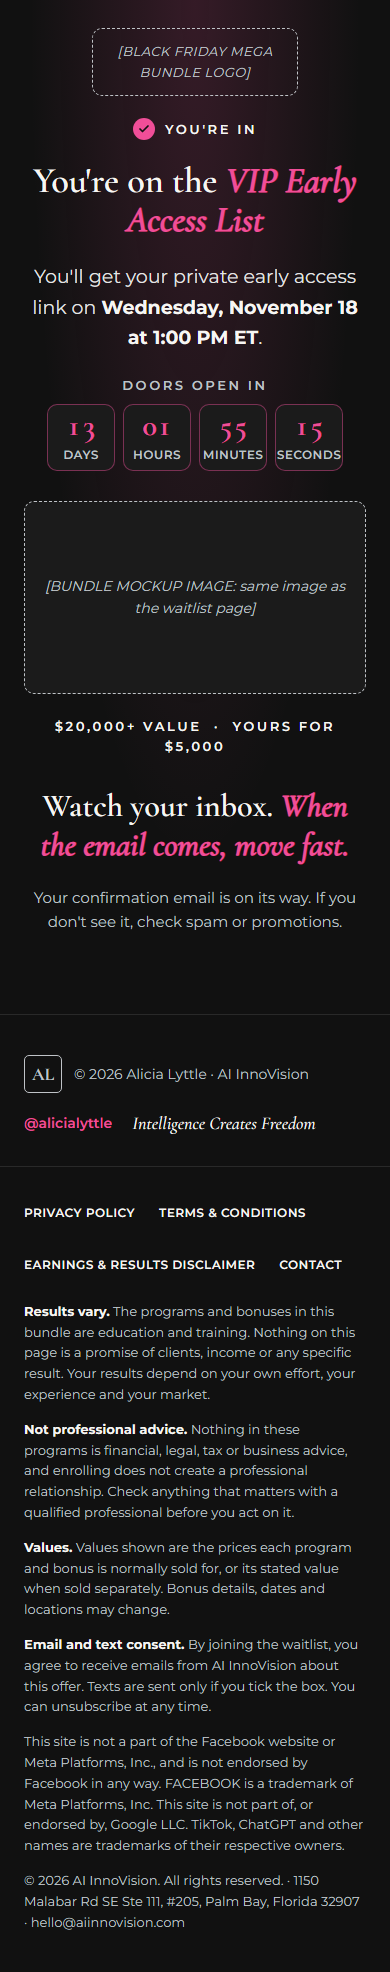
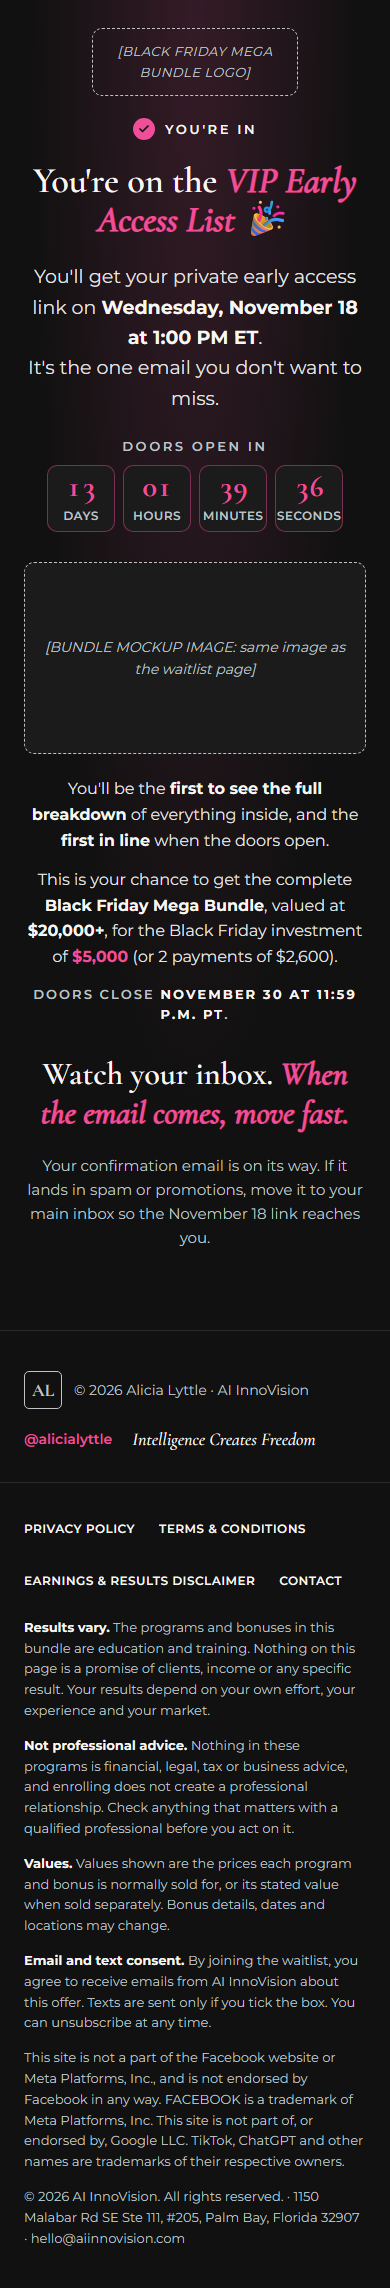
Waitlist confirmation v3: richer copy modelled on last year's; reference: confirmed-1

Changed region(s): [[0.0615, 0.3403, 0.9231, 0.9899], [0.0615, 0.0, 0.9231, 0.2475], [0.1231, 0.2784, 0.8923, 0.3093]]

diff --git a/funnels/mega-bundle-waitlist-nov-2026/preview/2-confirmed.html b/funnels/mega-bundle-waitlist-nov-2026/preview/2-confirmed.html
@@ -134,6 +134,11 @@ details summary::-webkit-details-marker{display:none}
   p[style*="font-size: 11px"]{font-size:12px !important}
 }
 @media (max-width:640px){.dbr{display:none}}
+.perks{max-width:680px;display:flex;flex-direction:column;gap:14px;font-size:18px;line-height:1.6;color:#E5E5E5}
+.perks strong{color:#F7F6F3}
+.perks .pink{color:#F04E98}
+.perks .closes{font-size:13px;letter-spacing:.16em;text-transform:uppercase;font-weight:600;color:#BFC3C7}
+@media (max-width:640px){.perks{font-size:16px}}
 </style>
 </head>
 <body><div style="position:sticky;top:0;z-index:99;background:#F04E98;color:#111;font:600 13px Montserrat,Arial,sans-serif;text-align:center;padding:8px 12px">PREVIEW ONLY · Step 2: Confirmation page. <a href="1-waitlist.html" style="color:#111">← Back to the waitlist page</a></div>
@@ -146,8 +151,8 @@ details summary::-webkit-details-marker{display:none}
 <span>[BLACK FRIDAY MEGA BUNDLE LOGO]</span>
 </div>
 <div style="display: flex; align-items: center; gap: 10px"><span style="width: 22px; height: 22px; border-radius: 50%; background: #F04E98; display: grid; place-items: center"><svg width="12" height="12" viewBox="0 0 24 24" fill="none" stroke="#111111" stroke-width="3.5" stroke-linecap="round" stroke-linejoin="round" aria-hidden="true"><path d="M20 6L9 17l-5-5"></path></svg></span><span class="eyebrow" style="color: #F7F6F3">You're in</span></div>
-<h1 style="font-size: 52px; color: #F7F6F3">You're on the <em style="font-style: italic; color: #F04E98">VIP Early Access List</em></h1>
-<p class="body" style="font-size: 19px; max-width: 800px">You'll get your private early access link on<br class="dbr"> <strong style="color: #F7F6F3"><span style="white-space: nowrap">Wednesday, November 18</span> <span style="white-space: nowrap">at 1:00 PM ET</span></strong>.</p>
+<h1 style="font-size: 52px; color: #F7F6F3">You're on the <em style="font-style: italic; color: #F04E98">VIP Early Access List</em> 🎉</h1>
+<p class="body" style="font-size: 19px; max-width: 800px">You'll get your private early access link on<br class="dbr"> <strong style="color: #F7F6F3"><span style="white-space: nowrap">Wednesday, November 18</span> <span style="white-space: nowrap">at 1:00 PM ET</span></strong>.<br>It's the one email you don't want to miss.</p>
 <div class="countdown" id="countdown" aria-live="polite" style="align-items: center">
 <p class="eyebrow" style="color: #BFC3C7">Doors open in</p>
 <div class="cd-boxes">
@@ -160,9 +165,13 @@ details summary::-webkit-details-marker{display:none}
 <div class="mockup" id="bundle-mockup" style="margin-top: 8px"><!-- Replace this box with the bundle mockup image: <img src="MOCKUP-URL" alt="The Black Friday Mega Bundle: everything inside"> -->
 <span>[BUNDLE MOCKUP IMAGE: same image as the waitlist page]</span>
 </div>
-<p class="eyebrow" style="color: #F7F6F3">$20,000+ value &nbsp;·&nbsp; yours for $5,000</p>
+<div class="perks">
+<p>You'll be the <strong>first to see the full breakdown</strong> of everything inside, and the <strong>first in line</strong> when the doors open.</p>
+<p>This is your chance to get the complete <strong>Black Friday Mega Bundle</strong>, valued at <strong>$20,000+</strong>, for the Black Friday investment of <strong class="pink">$5,000</strong> <span style="white-space: nowrap">(or 2 payments of $2,600).</span></p>
+<p class="closes">Doors close <strong>November 30 at 11:59 p.m. PT</strong>.</p>
+</div>
 <p style="font-family: 'Cormorant Garamond', Georgia, serif; font-size: 32px; font-weight: 600; line-height: 1.2; color: #F7F6F3; margin-top: 8px">Watch your inbox. <em style="color: #F04E98">When the email comes, move fast.</em></p>
-<p class="body" style="font-size: 15px; color: #BFC3C7">Your confirmation email is on its way. If you don't see it, check spam or promotions.</p>
+<p class="body" style="font-size: 15px; color: #BFC3C7">Your confirmation email is on its way. If it lands in spam or promotions, move it to your main inbox so the November 18 link reaches you.</p>
 </div>
 </div>
 

diff --git a/funnels/mega-bundle-waitlist-nov-2026/ghl/confirmed.ghl.html b/funnels/mega-bundle-waitlist-nov-2026/ghl/confirmed.ghl.html
@@ -183,6 +183,11 @@ body { background: #111111; }
   #ghl-waitlist-confirmed p[style*="font-size: 11px"] {font-size:12px !important}
 }
 @media (max-width:640px) {#ghl-waitlist-confirmed .dbr {display:none}}
+#ghl-waitlist-confirmed .perks {max-width:680px;display:flex;flex-direction:column;gap:14px;font-size:18px;line-height:1.6;color:#E5E5E5}
+#ghl-waitlist-confirmed .perks strong {color:#F7F6F3}
+#ghl-waitlist-confirmed .perks .pink {color:#F04E98}
+#ghl-waitlist-confirmed .perks .closes {font-size:13px;letter-spacing:.16em;text-transform:uppercase;font-weight:600;color:#BFC3C7}
+@media (max-width:640px) {#ghl-waitlist-confirmed .perks {font-size:16px}}
 
 /* --- structural overrides -----------------------------------------------
    These come LAST on purpose. The original page styled `body`, which the
@@ -214,8 +219,8 @@ body { background: #111111; }
 <span>[BLACK FRIDAY MEGA BUNDLE LOGO]</span>
 </div>
 <div style="display: flex; align-items: center; gap: 10px"><span style="width: 22px; height: 22px; border-radius: 50%; background: #F04E98; display: grid; place-items: center"><svg width="12" height="12" viewBox="0 0 24 24" fill="none" stroke="#111111" stroke-width="3.5" stroke-linecap="round" stroke-linejoin="round" aria-hidden="true"><path d="M20 6L9 17l-5-5"></path></svg></span><span class="eyebrow" style="color: #F7F6F3">You're in</span></div>
-<h1 style="font-size: 52px; color: #F7F6F3">You're on the <em style="font-style: italic; color: #F04E98">VIP Early Access List</em></h1>
-<p class="body" style="font-size: 19px; max-width: 800px">You'll get your private early access link on<br class="dbr"> <strong style="color: #F7F6F3"><span style="white-space: nowrap">Wednesday, November 18</span> <span style="white-space: nowrap">at 1:00 PM ET</span></strong>.</p>
+<h1 style="font-size: 52px; color: #F7F6F3">You're on the <em style="font-style: italic; color: #F04E98">VIP Early Access List</em> 🎉</h1>
+<p class="body" style="font-size: 19px; max-width: 800px">You'll get your private early access link on<br class="dbr"> <strong style="color: #F7F6F3"><span style="white-space: nowrap">Wednesday, November 18</span> <span style="white-space: nowrap">at 1:00 PM ET</span></strong>.<br>It's the one email you don't want to miss.</p>
 <div class="countdown" id="countdown" aria-live="polite" style="align-items: center">
 <p class="eyebrow" style="color: #BFC3C7">Doors open in</p>
 <div class="cd-boxes">
@@ -228,9 +233,13 @@ body { background: #111111; }
 <div class="mockup" id="bundle-mockup" style="margin-top: 8px"><!-- Replace this box with the bundle mockup image: <img src="MOCKUP-URL" alt="The Black Friday Mega Bundle: everything inside"> -->
 <span>[BUNDLE MOCKUP IMAGE: same image as the waitlist page]</span>
 </div>
-<p class="eyebrow" style="color: #F7F6F3">$20,000+ value &nbsp;·&nbsp; yours for $5,000</p>
+<div class="perks">
+<p>You'll be the <strong>first to see the full breakdown</strong> of everything inside, and the <strong>first in line</strong> when the doors open.</p>
+<p>This is your chance to get the complete <strong>Black Friday Mega Bundle</strong>, valued at <strong>$20,000+</strong>, for the Black Friday investment of <strong class="pink">$5,000</strong> <span style="white-space: nowrap">(or 2 payments of $2,600).</span></p>
+<p class="closes">Doors close <strong>November 30 at 11:59 p.m. PT</strong>.</p>
+</div>
 <p style="font-family: 'Cormorant Garamond', Georgia, serif; font-size: 32px; font-weight: 600; line-height: 1.2; color: #F7F6F3; margin-top: 8px">Watch your inbox. <em style="color: #F04E98">When the email comes, move fast.</em></p>
-<p class="body" style="font-size: 15px; color: #BFC3C7">Your confirmation email is on its way. If you don't see it, check spam or promotions.</p>
+<p class="body" style="font-size: 15px; color: #BFC3C7">Your confirmation email is on its way. If it lands in spam or promotions, move it to your main inbox so the November 18 link reaches you.</p>
 </div>
 </div>
 

diff --git a/funnels/mega-bundle-waitlist-nov-2026/design/confirmed.html b/funnels/mega-bundle-waitlist-nov-2026/design/confirmed.html
@@ -134,6 +134,11 @@ details summary::-webkit-details-marker{display:none}
   p[style*="font-size: 11px"]{font-size:12px !important}
 }
 @media (max-width:640px){.dbr{display:none}}
+.perks{max-width:680px;display:flex;flex-direction:column;gap:14px;font-size:18px;line-height:1.6;color:#E5E5E5}
+.perks strong{color:#F7F6F3}
+.perks .pink{color:#F04E98}
+.perks .closes{font-size:13px;letter-spacing:.16em;text-transform:uppercase;font-weight:600;color:#BFC3C7}
+@media (max-width:640px){.perks{font-size:16px}}
 </style>
 </head>
 <body>
@@ -146,8 +151,8 @@ details summary::-webkit-details-marker{display:none}
 <span>[BLACK FRIDAY MEGA BUNDLE LOGO]</span>
 </div>
 <div style="display: flex; align-items: center; gap: 10px"><span style="width: 22px; height: 22px; border-radius: 50%; background: #F04E98; display: grid; place-items: center"><svg width="12" height="12" viewBox="0 0 24 24" fill="none" stroke="#111111" stroke-width="3.5" stroke-linecap="round" stroke-linejoin="round" aria-hidden="true"><path d="M20 6L9 17l-5-5"></path></svg></span><span class="eyebrow" style="color: #F7F6F3">You're in</span></div>
-<h1 style="font-size: 52px; color: #F7F6F3">You're on the <em style="font-style: italic; color: #F04E98">VIP Early Access List</em></h1>
-<p class="body" style="font-size: 19px; max-width: 800px">You'll get your private early access link on<br class="dbr"> <strong style="color: #F7F6F3"><span style="white-space: nowrap">Wednesday, November 18</span> <span style="white-space: nowrap">at 1:00 PM ET</span></strong>.</p>
+<h1 style="font-size: 52px; color: #F7F6F3">You're on the <em style="font-style: italic; color: #F04E98">VIP Early Access List</em> 🎉</h1>
+<p class="body" style="font-size: 19px; max-width: 800px">You'll get your private early access link on<br class="dbr"> <strong style="color: #F7F6F3"><span style="white-space: nowrap">Wednesday, November 18</span> <span style="white-space: nowrap">at 1:00 PM ET</span></strong>.<br>It's the one email you don't want to miss.</p>
 <div class="countdown" id="countdown" aria-live="polite" style="align-items: center">
 <p class="eyebrow" style="color: #BFC3C7">Doors open in</p>
 <div class="cd-boxes">
@@ -160,9 +165,13 @@ details summary::-webkit-details-marker{display:none}
 <div class="mockup" id="bundle-mockup" style="margin-top: 8px"><!-- Replace this box with the bundle mockup image: <img src="MOCKUP-URL" alt="The Black Friday Mega Bundle: everything inside"> -->
 <span>[BUNDLE MOCKUP IMAGE: same image as the waitlist page]</span>
 </div>
-<p class="eyebrow" style="color: #F7F6F3">$20,000+ value &nbsp;·&nbsp; yours for $5,000</p>
+<div class="perks">
+<p>You'll be the <strong>first to see the full breakdown</strong> of everything inside, and the <strong>first in line</strong> when the doors open.</p>
+<p>This is your chance to get the complete <strong>Black Friday Mega Bundle</strong>, valued at <strong>$20,000+</strong>, for the Black Friday investment of <strong class="pink">$5,000</strong> <span style="white-space: nowrap">(or 2 payments of $2,600).</span></p>
+<p class="closes">Doors close <strong>November 30 at 11:59 p.m. PT</strong>.</p>
+</div>
 <p style="font-family: 'Cormorant Garamond', Georgia, serif; font-size: 32px; font-weight: 600; line-height: 1.2; color: #F7F6F3; margin-top: 8px">Watch your inbox. <em style="color: #F04E98">When the email comes, move fast.</em></p>
-<p class="body" style="font-size: 15px; color: #BFC3C7">Your confirmation email is on its way. If you don't see it, check spam or promotions.</p>
+<p class="body" style="font-size: 15px; color: #BFC3C7">Your confirmation email is on its way. If it lands in spam or promotions, move it to your main inbox so the November 18 link reaches you.</p>
 </div>
 </div>
 

diff --git a/funnels/mega-bundle-waitlist-nov-2026/copy/confirmation-page.md b/funnels/mega-bundle-waitlist-nov-2026/copy/confirmation-page.md
@@ -1,16 +1,18 @@
-# Mega Bundle Waitlist: confirmation page copy (v2, 2026-11-05)
+# Mega Bundle Waitlist: confirmation page copy (v3, 2026-11-05)
 
-Status: approved by the user. Built in `design/confirmed.html`. Modelled on last year's confirmation (`reference/model-funnels/black-friday-waitlist-2025/`).
+Status: v3 buffed up from last year's confirmation (/confirmed and /confirmed-1); "cap at 100 buyers" left out (no confirmed cap). Built in `design/confirmed.html`. Modelled on last year's confirmation (`reference/model-funnels/black-friday-waitlist-2025/`).
 
 ---
 
 [Logo]
 Eyebrow (with pink tick): **YOU'RE IN**
-Headline: **You're on the *VIP Early Access List***
-Line: You'll get your private early access link on **Wednesday, November 18 at 1:00 PM ET**.
+Headline: **You're on the *VIP Early Access List* 🎉**
+Line: You'll get your private early access link on **Wednesday, November 18 at 1:00 PM ET**. It's the one email you don't want to miss.
 Countdown: Doors open in [days/hours/minutes/seconds] (same as the waitlist page)
 [Bundle mockup image: same as the waitlist page]
-**$20,000+ value · yours for $5,000**
+You'll be the **first to see the full breakdown** of everything inside, and the **first in line** when the doors open.
+This is your chance to get the complete **Black Friday Mega Bundle**, valued at **$20,000+**, for the Black Friday investment of **$5,000** (or 2 payments of $2,600).
+DOORS CLOSE **NOVEMBER 30 AT 11:59 P.M. PT**.
 Close: **Watch your inbox. *When the email comes, move fast.***
-Small: Your confirmation email is on its way. If you don't see it, check spam or promotions.
+Small: Your confirmation email is on its way. If it lands in spam or promotions, move it to your main inbox so the November 18 link reaches you.
 Footer: same as the waitlist page.

diff --git a/reference/model-funnels/README.md b/reference/model-funnels/README.md
@@ -7,4 +7,4 @@ Funnels shared for reference (Alicia's live funnels or examples to model). One f
 | `become-an-ai-consultant/` | Main high-ticket funnel (live) | https://becomeanaiconsultant.com/joinus |
 | `the-ai-agents-course/` | AI Agents Course sales page (Lovable) + GHL order pages; $1,997 | https://theaiagentscourse.com/ |
 | `ai-micro-drama-ads-academy/` | AI Micro Drama Ads Academy membership (Lovable) + GHL order pages; $97/mo or $970/yr | https://aimicrodramaadsacademy.com/ |
-| `black-friday-waitlist-2025/` | Last year's Black Friday Mega Bundle waitlist (GHL, one-screen page + confirmation) | https://aliciaswaitlist.com/black-friday-waitlist · https://aliciaswaitlist.com/confirmed |
+| `black-friday-waitlist-2025/` | Last year's Black Friday Mega Bundle waitlist (GHL, one-screen page + confirmation) | https://aliciaswaitlist.com/black-friday-waitlist · https://aliciaswaitlist.com/confirmed · /confirmed-1 |

diff --git a/reference/model-funnels/black-friday-waitlist-2025/notes.md b/reference/model-funnels/black-friday-waitlist-2025/notes.md
@@ -6,6 +6,7 @@ Shared by the user 2026-11-05 as last year's Black Friday waitlist funnel. Captu
 |---|---|---|
 | 1 | https://aliciaswaitlist.com/black-friday-waitlist | Waitlist page: one screen |
 | 2 | https://aliciaswaitlist.com/confirmed | Confirmation page: one screen |
+| 3 | https://aliciaswaitlist.com/confirmed-1 | Same confirmation page (identical copy and design), second URL |
 
 Built in GHL (footer "Ai Marketing Summit - All Rights Reserved @ 2026"; legal links on aimarketingsummit2025.com, including a real **refund policy** page: /refund-policy-6772). Fonts: Bebas Neue / Anton headlines, Poppins body. Colors: purple background, yellow #FDC830 headline and button.
 
